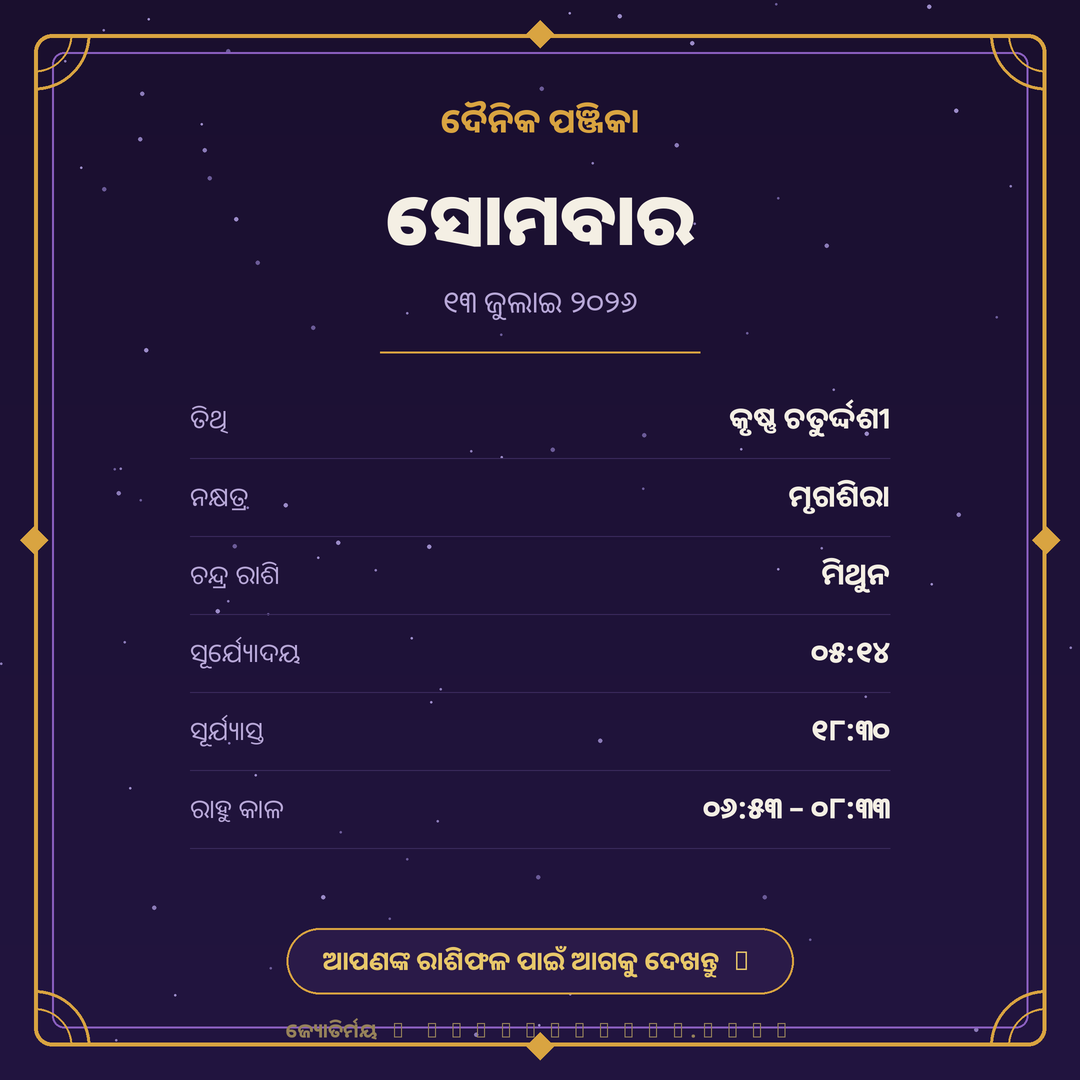
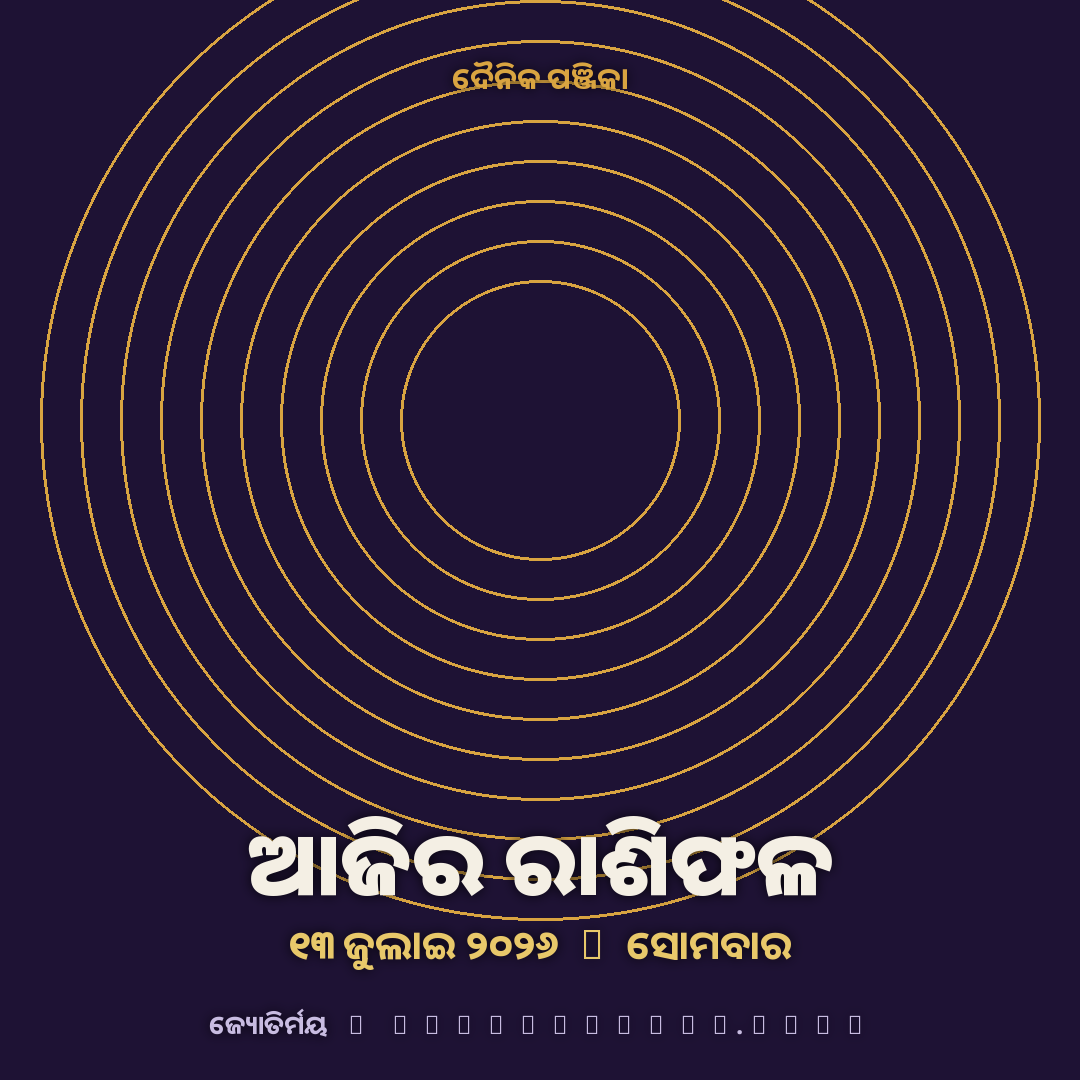
Add premium cover pool system

diff --git a/render/cover.py b/render/cover.py
@@ -1,0 +1,93 @@
+"""
+Jyotirmaya — premium cover from curated AI-art pool.
+Pool: assets/covers/{mon..sun}.png (1080x1080, textless, clean center).
+Selection is deterministic by weekday -> consistent brand rhythm.
+Fallback: if pool image missing/corrupt, cards.py renders the classic PIL cover.
+All text is PIL-overlaid with real Odia fonts — never AI-generated text.
+"""
+import os, datetime
+from PIL import Image, ImageDraw, ImageFont, ImageFilter
+
+HERE = os.path.dirname(__file__)
+POOL = os.path.join(HERE, "..", "assets", "covers")
+FDIR = os.path.join(HERE, "..", "fonts")
+
+GOLD = (217, 164, 65)
+GOLD_LIGHT = (232, 200, 106)
+CREAM = (244, 239, 228)
+MUTED = (200, 188, 225)
+
+WEEKDAY_FILES = ["mon.png", "tue.png", "wed.png", "thu.png",
+                 "fri.png", "sat.png", "sun.png"]
+
+
+def pool_image_for(date: datetime.date):
+    """Return opened pool image for this weekday, or None (triggers fallback)."""
+    path = os.path.join(POOL, WEEKDAY_FILES[date.weekday()])
+    if not os.path.exists(path):
+        # secondary: any image in pool, still deterministic
+        try:
+            imgs = sorted(f for f in os.listdir(POOL)
+                          if f.lower().endswith((".png", ".jpg", ".jpeg")))
+        except FileNotFoundError:
+            return None
+        if not imgs:
+            return None
+        path = os.path.join(POOL, imgs[date.toordinal() % len(imgs)])
+    try:
+        img = Image.open(path).convert("RGB")
+        return img.resize((1080, 1080), Image.LANCZOS)
+    except Exception:
+        return None
+
+
+def _text_with_glow(img, xy, text, font, fill, glow=(0, 0, 0)):
+    """Soft dark glow behind text for readability on any artwork."""
+    x, y = xy
+    layer = Image.new("RGBA", img.size, (0, 0, 0, 0))
+    ld = ImageDraw.Draw(layer)
+    ld.text((x, y), text, font=font, fill=glow + (200,))
+    layer = layer.filter(ImageFilter.GaussianBlur(6))
+    img.paste(Image.alpha_composite(img.convert("RGBA"), layer).convert("RGB"), (0, 0))
+    d = ImageDraw.Draw(img)
+    d.text((x, y), text, font=font, fill=fill)
+
+
+def render_premium_cover(date: datetime.date, date_odia: str,
+                         weekday_odia: str, out: str) -> bool:
+    """Compose pool art + branding overlay. Returns False if pool unavailable
+    (caller then uses the classic PIL cover as fallback)."""
+    art = pool_image_for(date)
+    if art is None:
+        return False
+    d = ImageDraw.Draw(art)
+    W = 1080
+
+    def F(name, size):
+        return ImageFont.truetype(os.path.join(FDIR, name), size)
+
+    # top: small brand line
+    f_top = F("NotoSansOriya-Bold.ttf", 30)
+    t = "ଦୈନିକ ପଞ୍ଜିକା"
+    w = d.textlength(t, font=f_top)
+    _text_with_glow(art, ((W - w) / 2, 56), t, f_top, GOLD)
+
+    # title block (bottom third — pool art keeps center clean, subject upper-mid)
+    f_title = F("NotoSansOriya-Black.ttf", 88)
+    t = "ଆଜିର ରାଶିଫଳ"
+    w = d.textlength(t, font=f_title)
+    _text_with_glow(art, ((W - w) / 2, 800), t, f_title, CREAM)
+
+    f_date = F("NotoSansOriya-Bold.ttf", 40)
+    t = f"{date_odia} · {weekday_odia}"
+    w = d.textlength(t, font=f_date)
+    _text_with_glow(art, ((W - w) / 2, 916), t, f_date, GOLD_LIGHT)
+
+    # footer brand
+    f_foot = F("NotoSansOriya-Bold.ttf", 26)
+    t = "ଜ୍ୟୋତିର୍ମୟ  ·  @jyotirmaya.odia"
+    w = d.textlength(t, font=f_foot)
+    _text_with_glow(art, ((W - w) / 2, 1006), t, f_foot, MUTED)
+
+    art.save(out, quality=95)
+    return True

diff --git a/render/cards.py b/render/cards.py
@@ -217,7 +217,13 @@ if __name__ == "__main__":
     outdir = os.path.join(here, "..", "output", dstr)
     os.makedirs(outdir, exist_ok=True)
     render_logo(os.path.join(outdir, "00_logo.png"))
-    render_cover(p, os.path.join(outdir, "01_cover.png"), date)
+    import cover as premium_cover
+    used_pool = premium_cover.render_premium_cover(
+        date, date_odia(date), p["weekday_odia"],
+        os.path.join(outdir, "01_cover.png"))
+    if not used_pool:
+        render_cover(p, os.path.join(outdir, "01_cover.png"), date)
+    print("cover source:", "pool" if used_pool else "classic PIL fallback")
     for i, item in enumerate(content["rashifala"], start=2):
         render_rashi_card(p, ctxs[item["rashi"]], item, os.path.join(outdir, f"{i:02d}_{item['rashi'].lower()}.png"), date)
     print("rendered:", sorted(os.listdir(outdir)))